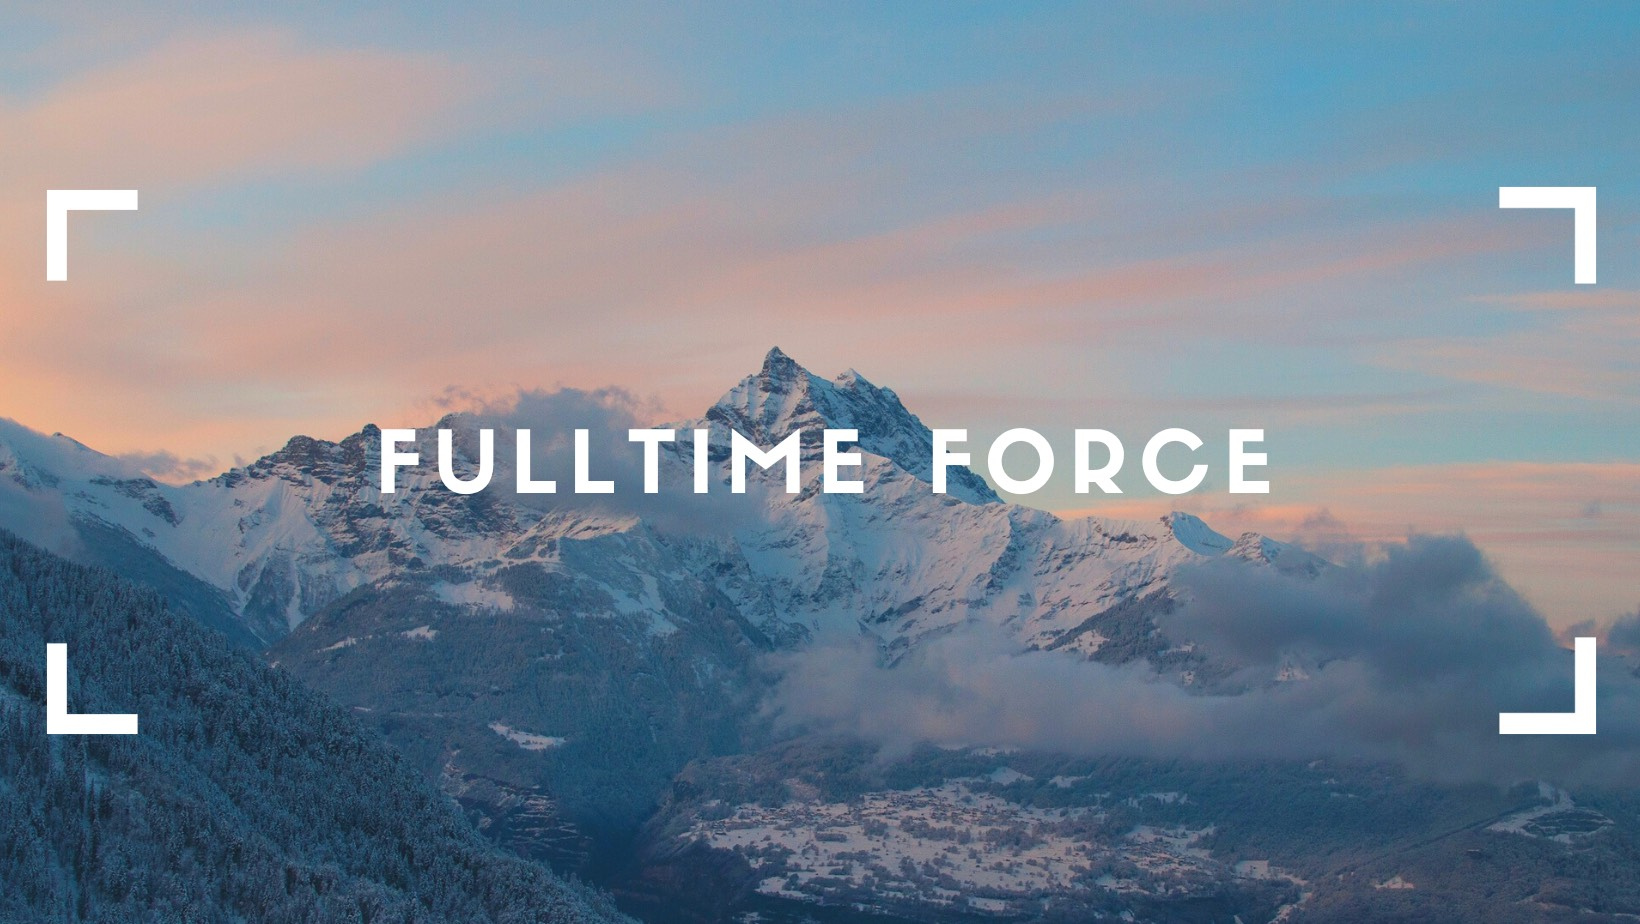
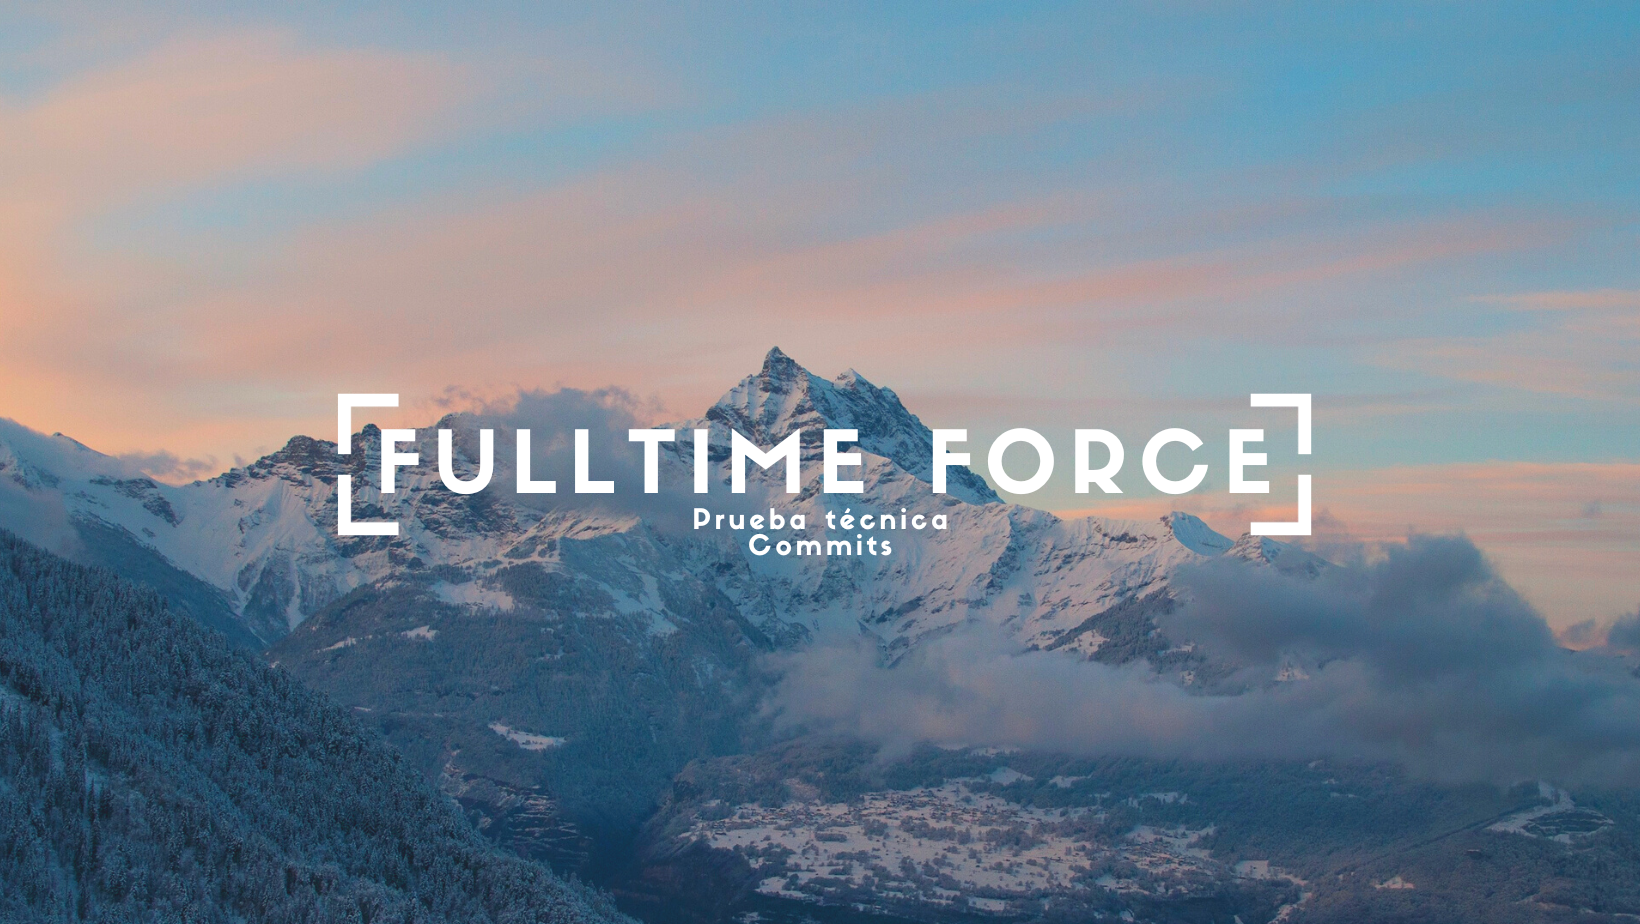
mejorando un poco el diseño de la imagen

diff --git a/frontend/src/assets/tailwind.css b/frontend/src/assets/tailwind.css
@@ -10,6 +10,7 @@
     background-repeat: no-repeat; /* Evita que la imagen se repita */
     background-attachment: fixed; /* Fija la imagen de fondo en su lugar */
 
+    /* Regla responsive para pantallas pequeñas */
     @media (max-width: 768px) {
         background-attachment: scroll; /* Cambia a desplazamiento para pantallas pequeñas */
     }
@@ -19,6 +20,8 @@
 .text-primary {
     color: #f9f9f9; /* Cambia el color de texto según tus preferencias */
     text-align: center;
+
+    /* Regla responsive para pantallas pequeñas */
     @media (max-width: 768px) {
         font-size: 1.5rem; /* Tamaño de fuente más grande para pantallas pequeñas */
     }
@@ -28,8 +31,8 @@
 .font-bold {
     font-weight: 700;
 
+    /* Regla responsive para pantallas pequeñas */
     @media (max-width: 768px) {
         font-weight: 600; /* Reduce el peso de la fuente para pantallas pequeñas */
     }
 }
-
